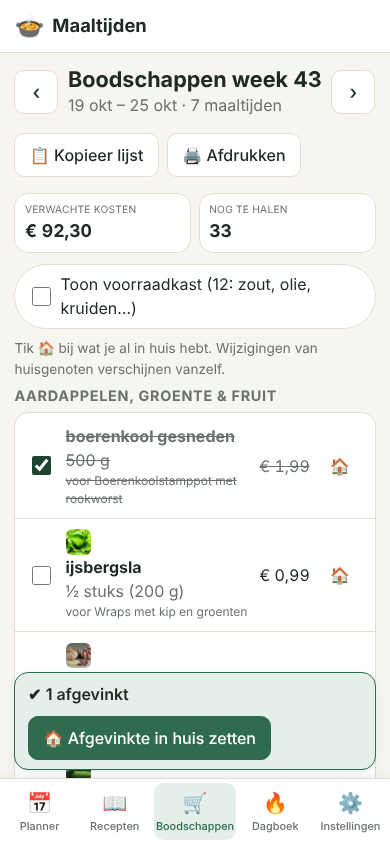
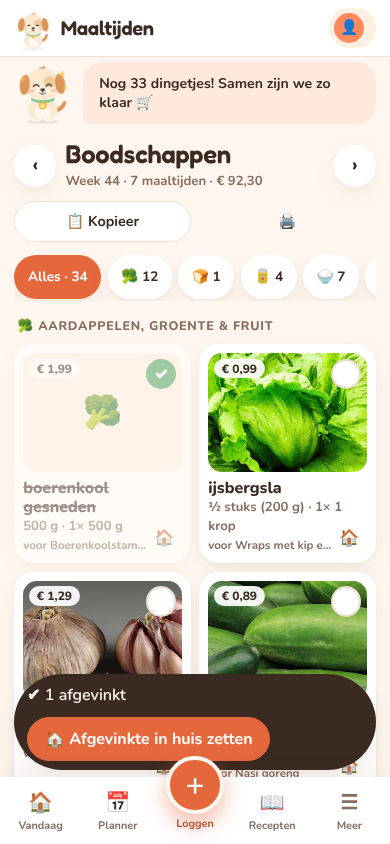
UAT bijgewerkt voor het v4-ontwerp
De Playwright-UAT zocht nog naar de schermen van v3. Op v4.1.0 vielen daardoor
21 van de 40 scenario's uit. De verwachtingen zijn gelijk gebleven; alleen de
weg ernaartoe is aangepast:
- planner: eerst de dag kiezen, dan het moment (.mslot) met tegels (.tile)
- boodschappen: afdelingen als .sec-k, totaal onder de titel, tikken op de tegel
- dagboek: loggen via het logpaneel (zoeken, grammen, loggen, reactie sluiten)
- 'Wat kan ik maken?' onder 'Meer filters'; ingrediëntregels per naam/hoeveelheid
- touchscreen-meting loopt alle dagen van de week langs

Uitslag: 38 van 40. UAT-20 (receptenpagina 401 px breed op de telefoon) en
UAT-26 (planner-knoppen 37-42 px) zijn echte app-fouten; beschreven in
docs/UAT-rapport.md §9. Schermafbeeldingen opnieuw gemaakt met v4.1.0.

Claude-Session: https://claude.ai/code/session_01JT4JDcGrigYCd9EMRHePr8

diff --git a/docs/UAT-rapport.md b/docs/UAT-rapport.md
@@ -1,8 +1,9 @@
-# Gebruikersacceptatietest (UAT): Maaltijden-app v1 → v3
+# Gebruikersacceptatietest (UAT): Maaltijden-app v1 → v4
 
-**Datum:** 8 oktober 2026
-**Getest:** v1.0 (eerste versie), v2.0, v2.2 (barcode scannen; Jumbo-koppeling verwijderd), v2.3 (prijzen uit Open Prices), v2.6 (dagboek) en **v3.0**
+**Datum:** 8 oktober 2026, bijgewerkt 27 oktober 2026 (v4.1.0)
+**Getest:** v1.0 (eerste versie), v2.0, v2.2 (barcode scannen; Jumbo-koppeling verwijderd), v2.3 (prijzen uit Open Prices), v2.6 (dagboek), v3.0 en **v4.1.0**
 **Uitslag v3.10:** 40 van de 40 scenario's geslaagd ✅ (zie [§8](#8-v3-recensies-opnieuw-bekeken-en-9-nieuwe-scenarios))
+**Uitslag v4.1.0:** 38 van de 40 scenario's geslaagd. UAT-20 en UAT-26 vallen uit door echte fouten in het nieuwe ontwerp (zie [§9](#9-v4-test-bijgewerkt-voor-het-nieuwe-ontwerp))
 
 ## 1. Aanpak
 
@@ -209,12 +210,64 @@ UAT-01 t/m UAT-24 zijn in dezelfde ronde opnieuw uitgevoerd en blijven geslaagd.
 
 Ook hier geldt: veel bronnen zijn overzichtssites of door concurrenten geschreven. Zie ze als richting.
 
+## 9. v4: test bijgewerkt voor het nieuwe ontwerp
+
+v4 heeft een nieuw ontwerp: het maatje Bolletje, een onderbalk (Vandaag · Planner · Loggen · Recepten · Meer), een planner die één dag tegelijk toont, boodschappen als tegels en een logpaneel voor het dagboek.
+Op v4.1.0 vielen daardoor 21 van de 40 scenario's uit (UAT-01, 02, 03, 08, 09, 10, 11, 12, 20, 21, 23, 24, 26, 27, 28, 30, 33, 34, 35, 36, 38).
+Bijna altijd zocht het script naar knoppen of vakken die niet meer bestaan. De app deed in die gevallen wel wat het scenario vraagt.
+
+### 9.1 Wat er in het script is veranderd
+
+De verwachting van elk scenario is gelijk gebleven. Alleen de weg ernaartoe is aangepast:
+
+| Scenario's | Oud (v3) | Nieuw (v4) |
+|---|---|---|
+| 01, 02, 03, 11, 27, 28, 34, 35, 36 | Planner toont de hele week als kolommen (`.day`, `.slot`, `.plan-entry`) | Eerst de dag kiezen met de dagknoppen, dan het moment (`.mslot`) met tegels (`.tile`). Verplaatsen en restjes blijven binnen de getoonde week. |
+| 26 | Knoppen meten op de weekweergave | Alle 7 dagen langslopen en per soort knop de kleinste meten, ook de nieuwe knoppen (`+ nog iets bij…`, dagknoppen, onderbalk, ‘Loggen’) |
+| 08, 09 | Afdelingen als koppen, totaal in een tegel | Afdelingen als `.sec-k`, totaal onder de titel. Het totaal moet nog steeds dalen na 🏠. |
+| 10, 38 | Vakje aanvinken in een lijst | Op de tegel tikken (het vakje zit onzichtbaar in de tegel) |
+| 12 | Invoerveld direct zichtbaar | Eerst ‘Meer filters’ openen |
+| 21, 30 | Tekst ‘250 ml halfvolle melk’ in de ingrediëntenlijst | Per regel: naam (met de badge ‘hele verpakking’) en hoeveelheid staan nu in die volgorde. Hoeveelheid per ingrediënt gecontroleerd. |
+| 23, 33 | Zoekveld en hoeveelheid in het dagboekvenster | Logpaneel: 🔎 Zoeken → ingrediënt → grammen → ‘Loggen als …’ → reactie van het maatje sluiten. Het dagtotaal moet nog steeds precies met de gelogde kcal oplopen. |
+| 24 | – | Viel alleen uit omdat UAT-23 niets had gelogd; slaagt nu zonder aanpassing |
+
+### 9.2 Uitslag v4.1.0
+
+| ID | Uitslag | Toelichting |
+|---|---|---|
+| UAT-01 t/m 19, 21 t/m 25, 27 t/m 40 | ✅ | 38 scenario's geslaagd |
+| UAT-20 | ❌ **app-fout** | `#/recepten` is op de telefoon 401 px breed (scherm 390 px): de pagina scrollt opzij |
+| UAT-26 | ❌ **app-fout** | Knoppen in de nieuwe planner zijn kleiner dan 44 px |
+
+**UAT-20, pagina te breed.** Op de telefoon staan recepten in 3 smalle kolommen (± 115 px).
+Lange woorden in een receptnaam passen daar niet in en lopen buiten het kaartje: ‘Varkenshaas met champignonroomsaus’ 25 px, ‘Boerenkoolstamppot met rookworst’ 20 px, ‘Zuurkoolstamppot met rookworst’ 4 px.
+Staat zo'n recept in de rechterkolom, dan wordt de hele pagina breder dan het scherm en schuift ook de onderbalk mee (‘Meer’ valt half buiten beeld).
+Of het gebeurt hangt af van welke recepten rechts staan. Daarom slaagt het scenario soms los wel.
+Mogelijke oplossing: `overflow-wrap: anywhere` (of `hyphens: auto`) op `.recipes-c .recipe-title`, zoals al bij de boodschappentegels (`.shop-tile .nm`).
+
+**UAT-26, knoppen te klein.** Gemeten op 390×844, alle dagen van de week:
+
+| Knop | Grootte | Richtlijn |
+|---|---|---|
+| ‘+ nog iets bij diner/lunch/ontbijt’ (`.mslot-more`) | 147–159 × **37** px | ≥ 44 px |
+| ⋯ en ✕ op een maaltijdtegel (`.tile-tools .mini`) | **38** × 44 px | ≥ 44 px |
+| ‘✨ Weekmenu’ en ‘🛒 Boodschappen’ bovenaan de planner (`.btn`) | 147 × **42** px | ≥ 44 px |
+
+De ⋯- en ✕-knoppen zijn het belangrijkst: daarmee verplaats je op de telefoon een maaltijd of haal je hem weg (UAT-02).
+In v3 waren deze knoppen juist naar 44 px vergroot (§8.4).
+
+### 9.3 Overige opmerkingen
+
+- Elke testronde geeft één consolemelding `Failed to load resource: … 400 (Bad Request)`. Die stond er vóór de aanpassingen ook al en laat geen scenario mislukken; de oorzaak is niet onderzocht.
+- UAT-23 vinkt de geplande maaltijd van vandaag alleen af als er die dag nog iets gepland staat. Dat hangt af van de volgorde van de scenario's (UAT-02 verplaatst een maaltijd van vandaag) en was in v3 ook zo.
+- De schermafbeeldingen in de bijlage zijn opnieuw gemaakt met v4.1.0.
+
 ## Bijlage: schermafbeeldingen
 
 | | |
 |---|---|
-| ![Planner](uat/01-planner.png) Planner met restjes (♻) en vrije tekst | ![Open Food Facts](uat/06-off-zoeken.png) Voedingswaarden zoeken in Open Food Facts |
-| ![Verplaatsen op telefoon](uat/02-verplaatsen-mobiel.png) Verplaatsen op de telefoon | ![Boodschappen mobiel](uat/10-boodschappen-mobiel.png) Boodschappenlijst met 🏠 ‘heb ik al’ |
+| ![Planner](uat/01-planner.png) *(v4)* Planner: één dag tegelijk, recepten slepen uit de lijst | ![Open Food Facts](uat/06-off-zoeken.png) Voedingswaarden zoeken in Open Food Facts |
+| ![Verplaatsen op telefoon](uat/02-verplaatsen-mobiel.png) Verplaatsen op de telefoon | ![Boodschappen mobiel](uat/10-boodschappen-mobiel.png) *(v4)* Boodschappen als tegels, met 🏠 ‘heb ik al’ |
 | ![Wat kan ik maken](uat/12-wat-kan-ik-maken.png) ‘Wat kan ik maken?’ | ![Offline](uat/16-offline.png) Offline met melding |
 | ![Barcode in recept](uat/21-barcode-recept.png) Ingrediënt scannen in de recepteditor | ![Open Prices](uat/22-open-prices.png) Winkelprijzen uit Open Prices |
 | ![Dagboek](uat/23-dagboek.png) Calorieëndagboek op de telefoon | ![Gewicht](uat/24-gewicht.png) Gewichtslog met trendlijn |
